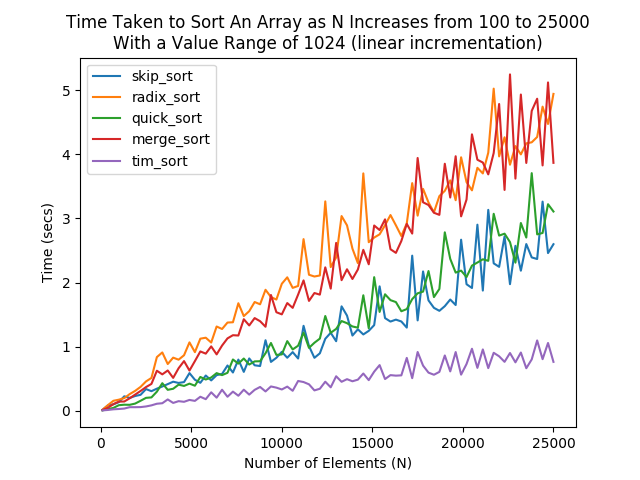
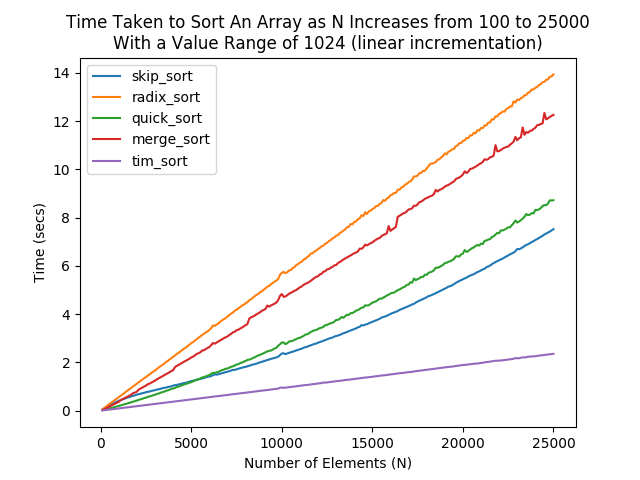
Reduces background noise when functions were originally tested

diff --git a/src/genetic_skiplist.py b/src/genetic_skiplist.py
@@ -606,7 +606,7 @@ With a Value Range of {} ({} incrementation)".format(start, end, b-a, mode))
 if __name__ == '__main__':
     create_elements_vs_time_graph(a=0, b=1024, start=100, end=25000,
                                   sorts=(skip_sort, radix_sort, quick_sort, merge_sort, tim_sort),
-                                  increment=300, trials=10, mode='linear')
+                                  increment=100, trials=50, mode='linear')
 
     # create_elements_vs_time_graph(a=0, b=1000000, start=100, end=1000000, bases=(2, 10),
     #                               increment=1, coefficient=10, trials=1, mode='Geometric')
